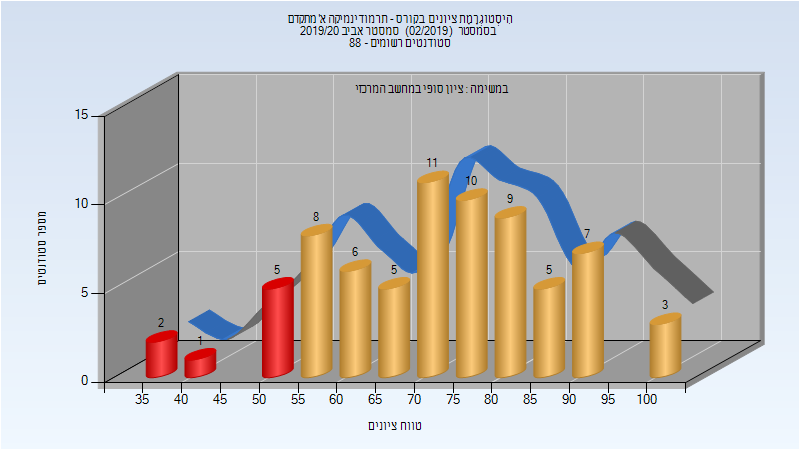
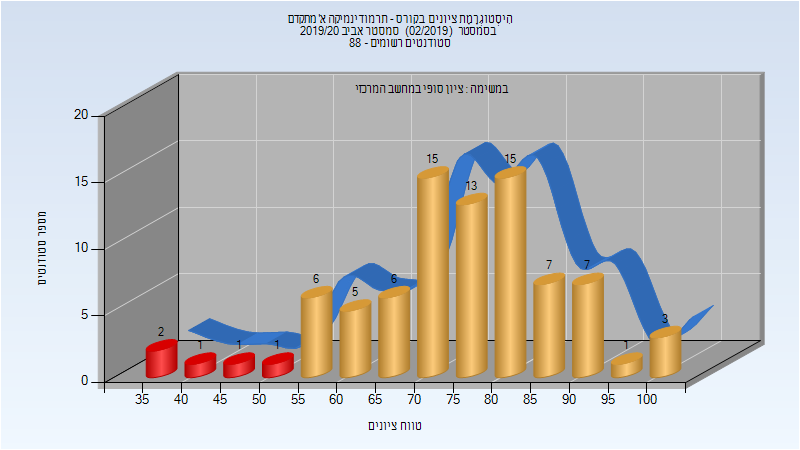
Deploy michael-maltsev/technion-histograms to github.com/michael-maltsev/technion-histograms.git:gh-pages

diff --git a/054203/index.html b/054203/index.html
@@ -509,6 +509,32 @@
 </tr>
 </tbody>
 </table>
+<h3>סופי מועד ב'</h3>
+<p><img src="201902/Final_B.png" alt="201902 Final_B" /></p>
+<table>
+<thead>
+<tr>
+<th>סטודנטים</th>
+<th>עברו/נכשלו</th>
+<th>אחוז עוברים</th>
+<th>ציון מינימלי</th>
+<th>ציון מקסימלי</th>
+<th>ממוצע</th>
+<th>חציון</th>
+</tr>
+</thead>
+<tbody>
+<tr>
+<td>21</td>
+<td>15/6</td>
+<td>71</td>
+<td>16.218</td>
+<td>94.491</td>
+<td>62.333</td>
+<td>62.118</td>
+</tr>
+</tbody>
+</table>
 <h3>סופי</h3>
 <p><img src="201902/Finals.png" alt="201902 Finals" /></p>
 <table>

diff --git a/054316/index.html b/054316/index.html
@@ -253,13 +253,13 @@
 </thead>
 <tbody>
 <tr>
-<td>72</td>
-<td>64/8</td>
-<td>89</td>
-<td>39</td>
+<td>83</td>
+<td>78/5</td>
+<td>94</td>
+<td>37</td>
 <td>100</td>
-<td>72.597</td>
-<td>73.5</td>
+<td>75.157</td>
+<td>76</td>
 </tr>
 </tbody>
 </table>

diff --git a/054203/README.md b/054203/README.md
@@ -158,6 +158,14 @@
 | ---- | ---- | ---- | ---- | ---- | ---- | ---- |
 | 53 | 47/6 | 89 | 45.445 | 99.991 | 73.64 | 73.991 |
 
+### סופי מועד ב'
+
+![201902 Final_B](201902/Final_B.png)
+
+| סטודנטים | עברו/נכשלו | אחוז עוברים | ציון מינימלי | ציון מקסימלי | ממוצע | חציון |
+| ---- | ---- | ---- | ---- | ---- | ---- | ---- |
+| 21 | 15/6 | 71 | 16.218 | 94.491 | 62.333 | 62.118 |
+
 ### סופי
 
 ![201902 Finals](201902/Finals.png)

diff --git a/054316/README.md b/054316/README.md
@@ -75,5 +75,5 @@
 
 | סטודנטים | עברו/נכשלו | אחוז עוברים | ציון מינימלי | ציון מקסימלי | ממוצע | חציון |
 | ---- | ---- | ---- | ---- | ---- | ---- | ---- |
-| 72 | 64/8 | 89 | 39 | 100 | 72.597 | 73.5 |
+| 83 | 78/5 | 94 | 37 | 100 | 75.157 | 76 |
 
